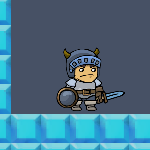
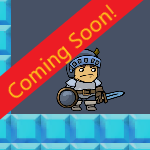
Update unity game thumbnail.

Changed region(s): [[0.0, 0.0, 0.96, 0.8]]

diff --git a/assets/portfolio.js b/assets/portfolio.js
@@ -113,4 +113,4 @@ var t=Ember.HTMLBars.template({id:"euwYszGD",block:'{"symbols":[],"statements":[
 e.default=t})),define("portfolio/templates/projects/index",["exports"],(function(e){Object.defineProperty(e,"__esModule",{value:!0}),e.default=void 0
 var t=Ember.HTMLBars.template({id:"uDd+URoS",block:'{"symbols":["projectUnit"],"statements":[[7,"ul",true],[10,"class","results"],[8],[0,"\\n"],[4,"each",[[23,0,["model"]]],null,{"statements":[[0,"    "],[7,"li",true],[8],[5,"project-item",[],[["@project"],[[23,1,[]]]],{"statements":[],"parameters":[]}],[9],[0,"\\n"]],"parameters":[1]},null],[9],[0,"\\n"],[1,[22,"outlet"],false],[0,"\\n"]],"hasEval":false}',meta:{moduleName:"portfolio/templates/projects/index.hbs"}})
 e.default=t})),define("portfolio/transforms/boolean",["exports","@ember-data/serializer/-private"],(function(e,t){Object.defineProperty(e,"__esModule",{value:!0}),Object.defineProperty(e,"default",{enumerable:!0,get:function(){return t.BooleanTransform}})})),define("portfolio/transforms/date",["exports","@ember-data/serializer/-private"],(function(e,t){Object.defineProperty(e,"__esModule",{value:!0}),Object.defineProperty(e,"default",{enumerable:!0,get:function(){return t.DateTransform}})})),define("portfolio/transforms/number",["exports","@ember-data/serializer/-private"],(function(e,t){Object.defineProperty(e,"__esModule",{value:!0}),Object.defineProperty(e,"default",{enumerable:!0,get:function(){return t.NumberTransform}})})),define("portfolio/transforms/string",["exports","@ember-data/serializer/-private"],(function(e,t){Object.defineProperty(e,"__esModule",{value:!0}),Object.defineProperty(e,"default",{enumerable:!0,get:function(){return t.StringTransform}})})),define("portfolio/config/environment",[],(function(){try{var e="portfolio/config/environment",t=document.querySelector('meta[name="'+e+'"]').getAttribute("content"),o={default:JSON.parse(decodeURIComponent(t))}
-return Object.defineProperty(o,"__esModule",{value:!0}),o}catch(n){throw new Error('Could not read config from meta tag with name "'+e+'".')}})),runningTests||require("portfolio/app").default.create({name:"portfolio",version:"0.0.0+b2c1004f"})
+return Object.defineProperty(o,"__esModule",{value:!0}),o}catch(n){throw new Error('Could not read config from meta tag with name "'+e+'".')}})),runningTests||require("portfolio/app").default.create({name:"portfolio",version:"0.0.0+e3b2add1"})

diff --git a/index.html b/index.html
@@ -8,7 +8,7 @@
     <meta name="viewport" content="width=device-width, initial-scale=1">
 
     
-<meta name="portfolio/config/environment" content="%7B%22modulePrefix%22%3A%22portfolio%22%2C%22environment%22%3A%22production%22%2C%22rootURL%22%3A%22%2Fportfolio%2F%22%2C%22locationType%22%3A%22hash%22%2C%22EmberENV%22%3A%7B%22FEATURES%22%3A%7B%7D%2C%22EXTEND_PROTOTYPES%22%3A%7B%22Date%22%3Afalse%7D%2C%22_JQUERY_INTEGRATION%22%3Afalse%7D%2C%22APP%22%3A%7B%22name%22%3A%22portfolio%22%2C%22version%22%3A%220.0.0%2Bb2c1004f%22%7D%2C%22ember-cli-mirage%22%3A%7B%22enabled%22%3Atrue%2C%22usingProxy%22%3Afalse%2C%22useDefaultPassthroughs%22%3Atrue%7D%2C%22exportApplicationGlobal%22%3Afalse%2C%22ember-simple-leaflet-maps%22%3A%7B%22url%22%3A%22https%3A%2F%2Funpkg.com%22%2C%22version%22%3A%221.3.4%22%2C%22apiKey%22%3A%22%22%7D%2C%22isModuleUnification%22%3Afalse%7D" />
+<meta name="portfolio/config/environment" content="%7B%22modulePrefix%22%3A%22portfolio%22%2C%22environment%22%3A%22production%22%2C%22rootURL%22%3A%22%2Fportfolio%2F%22%2C%22locationType%22%3A%22hash%22%2C%22EmberENV%22%3A%7B%22FEATURES%22%3A%7B%7D%2C%22EXTEND_PROTOTYPES%22%3A%7B%22Date%22%3Afalse%7D%2C%22_JQUERY_INTEGRATION%22%3Afalse%7D%2C%22APP%22%3A%7B%22name%22%3A%22portfolio%22%2C%22version%22%3A%220.0.0%2Be3b2add1%22%7D%2C%22ember-cli-mirage%22%3A%7B%22enabled%22%3Atrue%2C%22usingProxy%22%3Afalse%2C%22useDefaultPassthroughs%22%3Atrue%7D%2C%22exportApplicationGlobal%22%3Afalse%2C%22ember-simple-leaflet-maps%22%3A%7B%22url%22%3A%22https%3A%2F%2Funpkg.com%22%2C%22version%22%3A%221.3.4%22%2C%22apiKey%22%3A%22%22%7D%2C%22isModuleUnification%22%3Afalse%7D" />
 
     <link integrity="" rel="stylesheet" href="/portfolio/assets/vendor.css">
     <link integrity="" rel="stylesheet" href="/portfolio/assets/portfolio.css">
